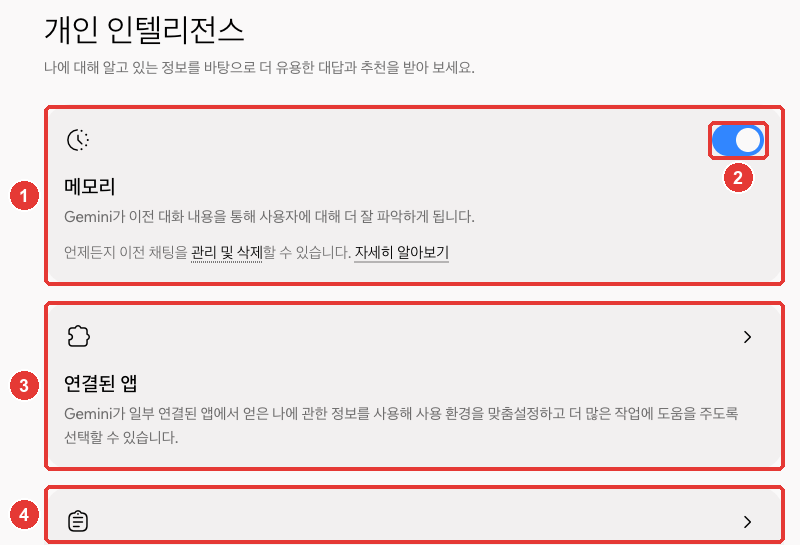
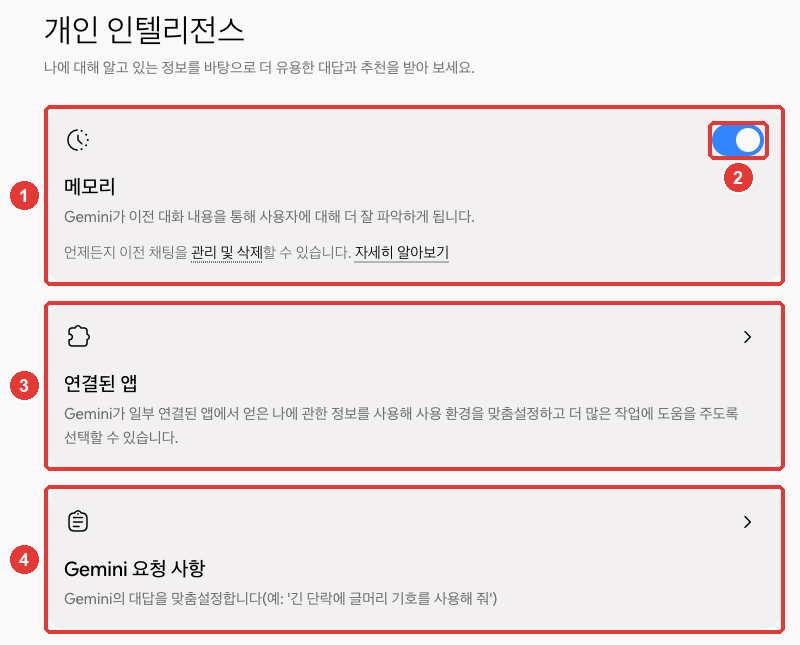
문서: Gemini 5장 검토 지적 반영
- [필수] AI 학습 안내를 원문대로 "가져와 이어 간 대화"로
- [필수] ChatGPT 내보내기 경로를 화면 이름 「데이터 관리」로
- [필수] 개인 인텔리전스 그림을 「Gemini 요청 사항」 카드까지 다시 찍음
- 지침 단계의 화면 확인 범위 명시, 나이 표현 통일, 연결 앱 각주

Claude-Session: https://claude.ai/code/session_01BpXZYHkksLp9vmjU8N2A1n

Changed region(s): [[0.0, 0.4367, 1.0, 0.9982], [0.0, 0.0312, 1.0, 0.4055]]

diff --git a/.vitepress/theme/quiz-bank-gemini.ts b/.vitepress/theme/quiz-bank-gemini.ts
@@ -365,7 +365,7 @@ export const GEMINI_QUESTIONS: readonly Question[] = [
       '「Gemini 요청 사항」에 그 문장을 지침으로 추가한다',
     ],
     answer: 3,
-    explain: '지침(「Gemini 요청 사항」)은 모든 사용자가 추가할 수 있고, 새 대화에서도 따로 말하지 않아도 지켜집니다. 대화로 기억시키기와 메모리 요약은 미국 전용입니다.',
+    explain: '지침(「Gemini 요청 사항」)은 모든 사용자가 추가할 수 있고, 새 대화에서도 따로 말하지 않아도 적용됩니다. 대화로 기억시키기와 메모리 요약은 미국 전용입니다.',
   },
   {
     id: 'ch305-import',
@@ -378,6 +378,6 @@ export const GEMINI_QUESTIONS: readonly Question[] = [
       '회사·학교 계정에서만 가져올 수 있다',
     ],
     answer: 1,
-    explain: '가져오거나 이어 간 대화는 내 활동에 저장되고, 생성형 AI 모델 학습을 비롯한 서비스 개선에 쓰입니다. ZIP 은 하루 5개, 5GB까지이고 개인 계정만 됩니다.',
+    explain: '가져와 이어 간 대화는 내 활동에 저장되고, 생성형 AI 모델 학습을 비롯한 서비스 개선에 쓰입니다. ZIP 은 하루 5개, 5GB까지이고 개인 계정만 됩니다.',
   },
 ]
